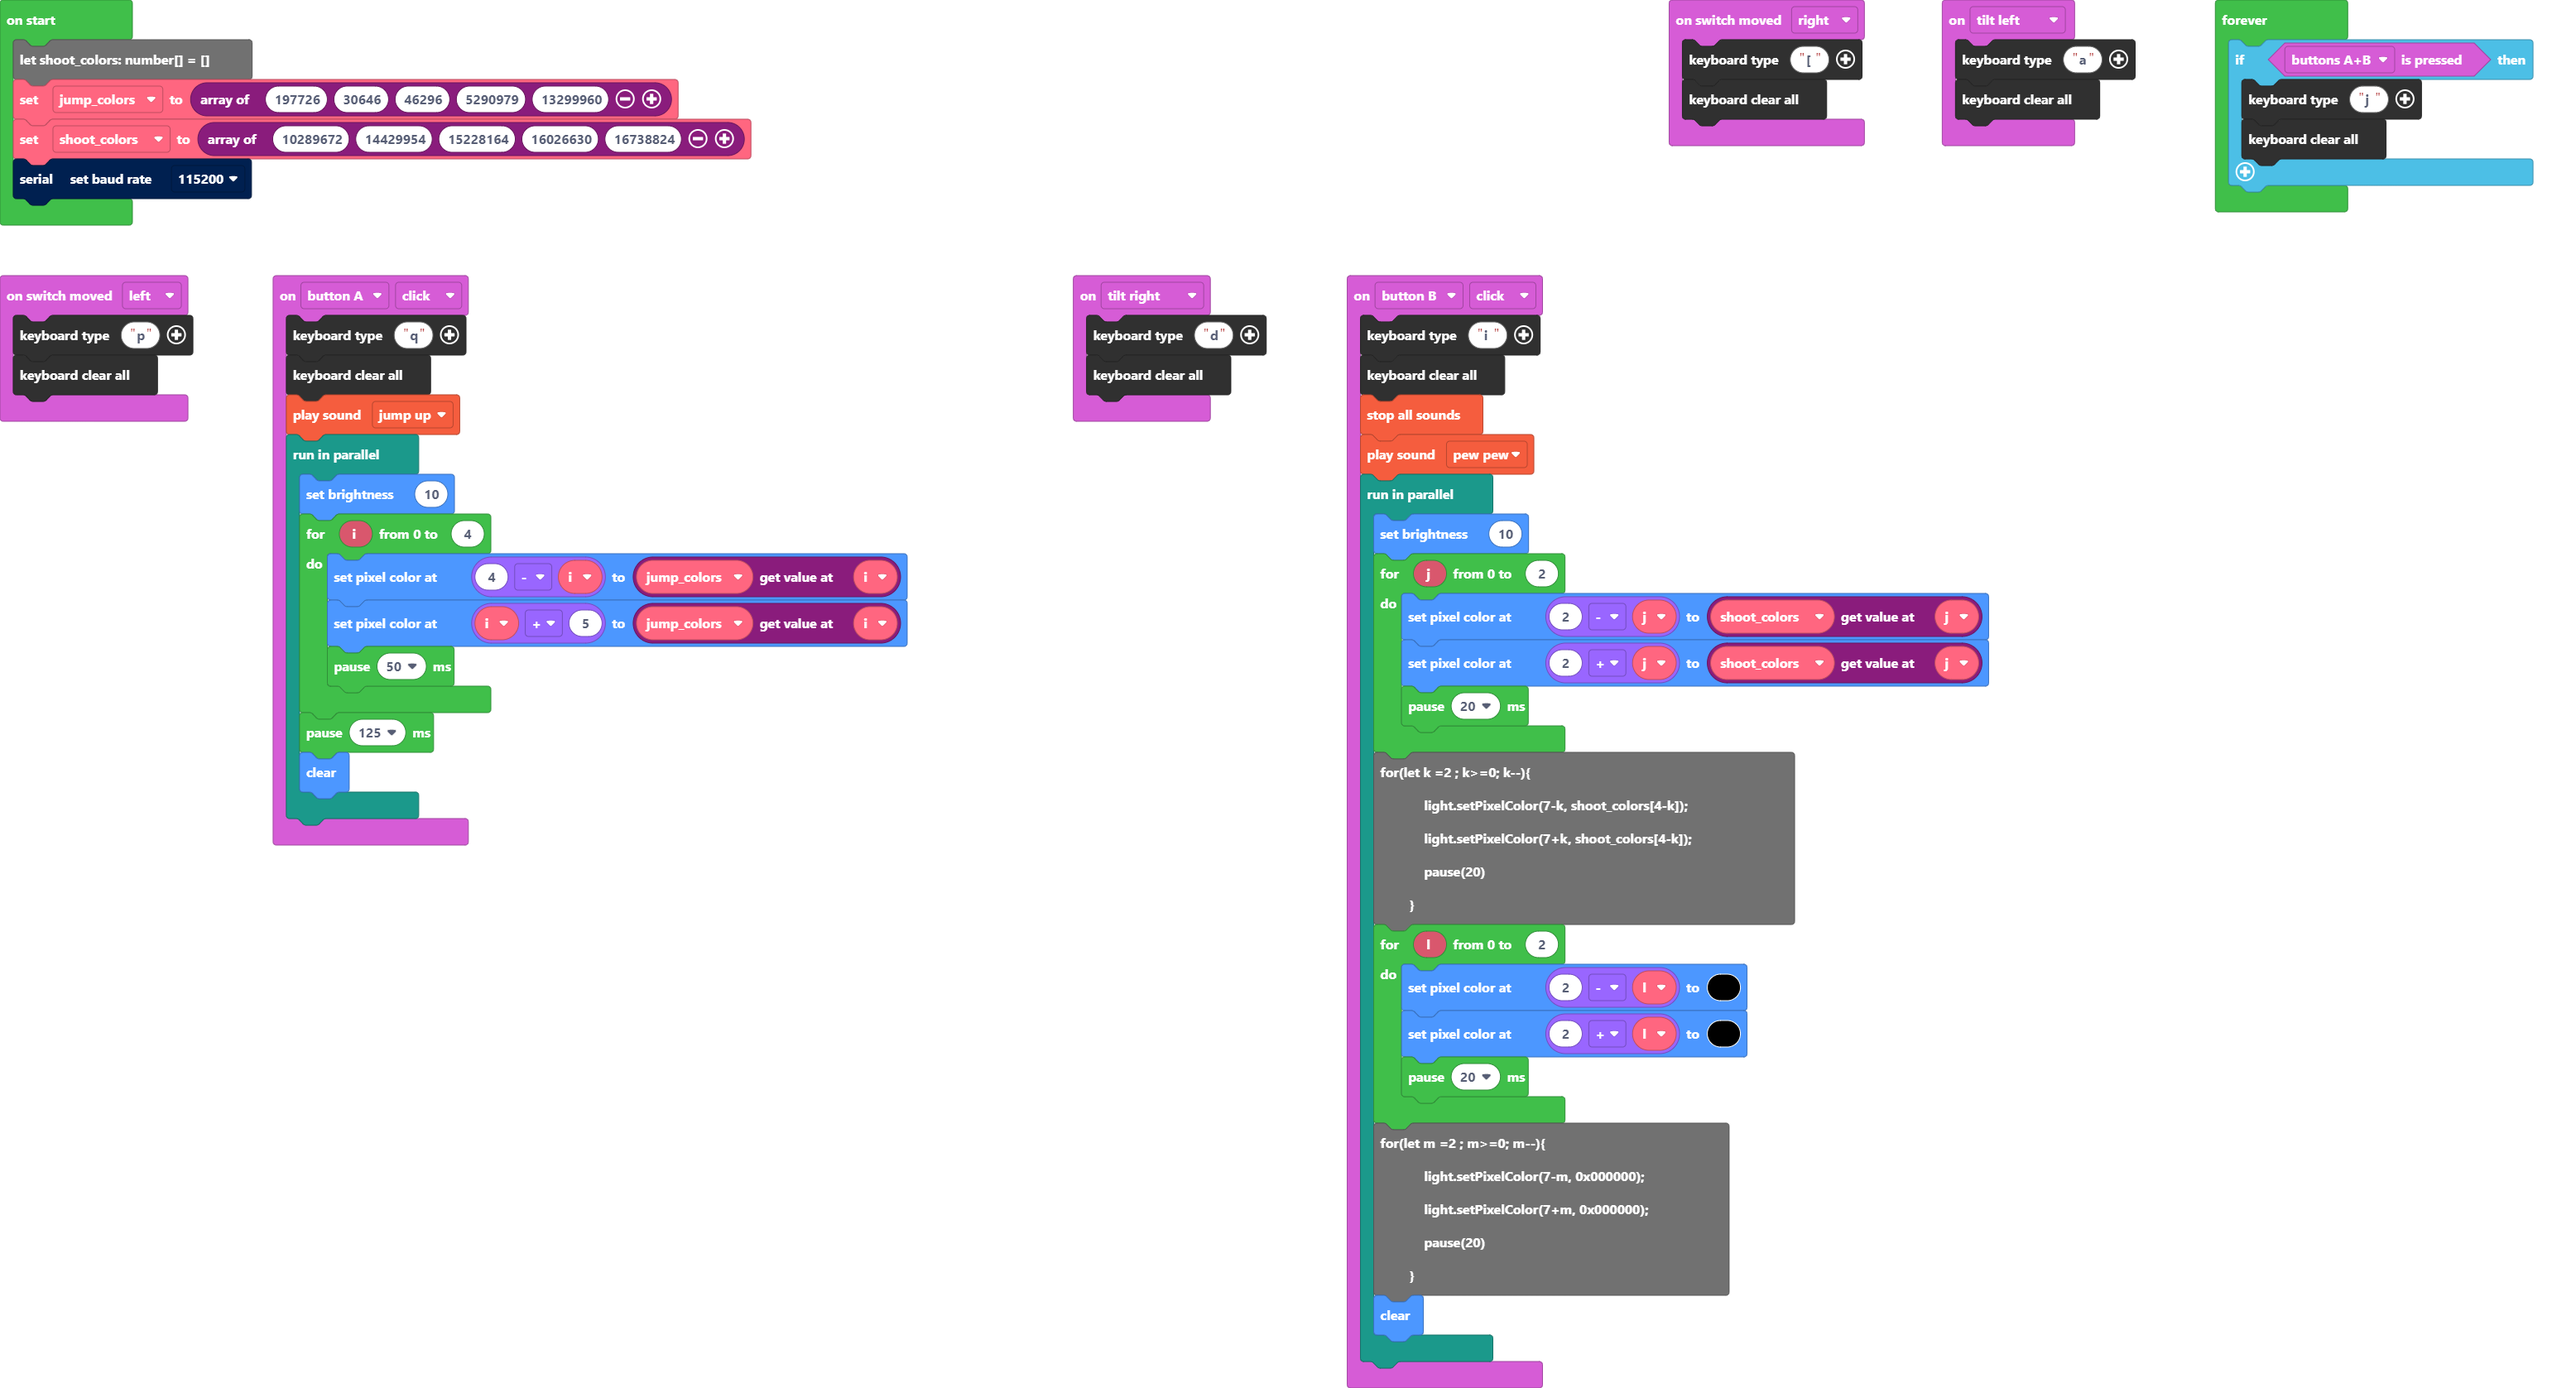
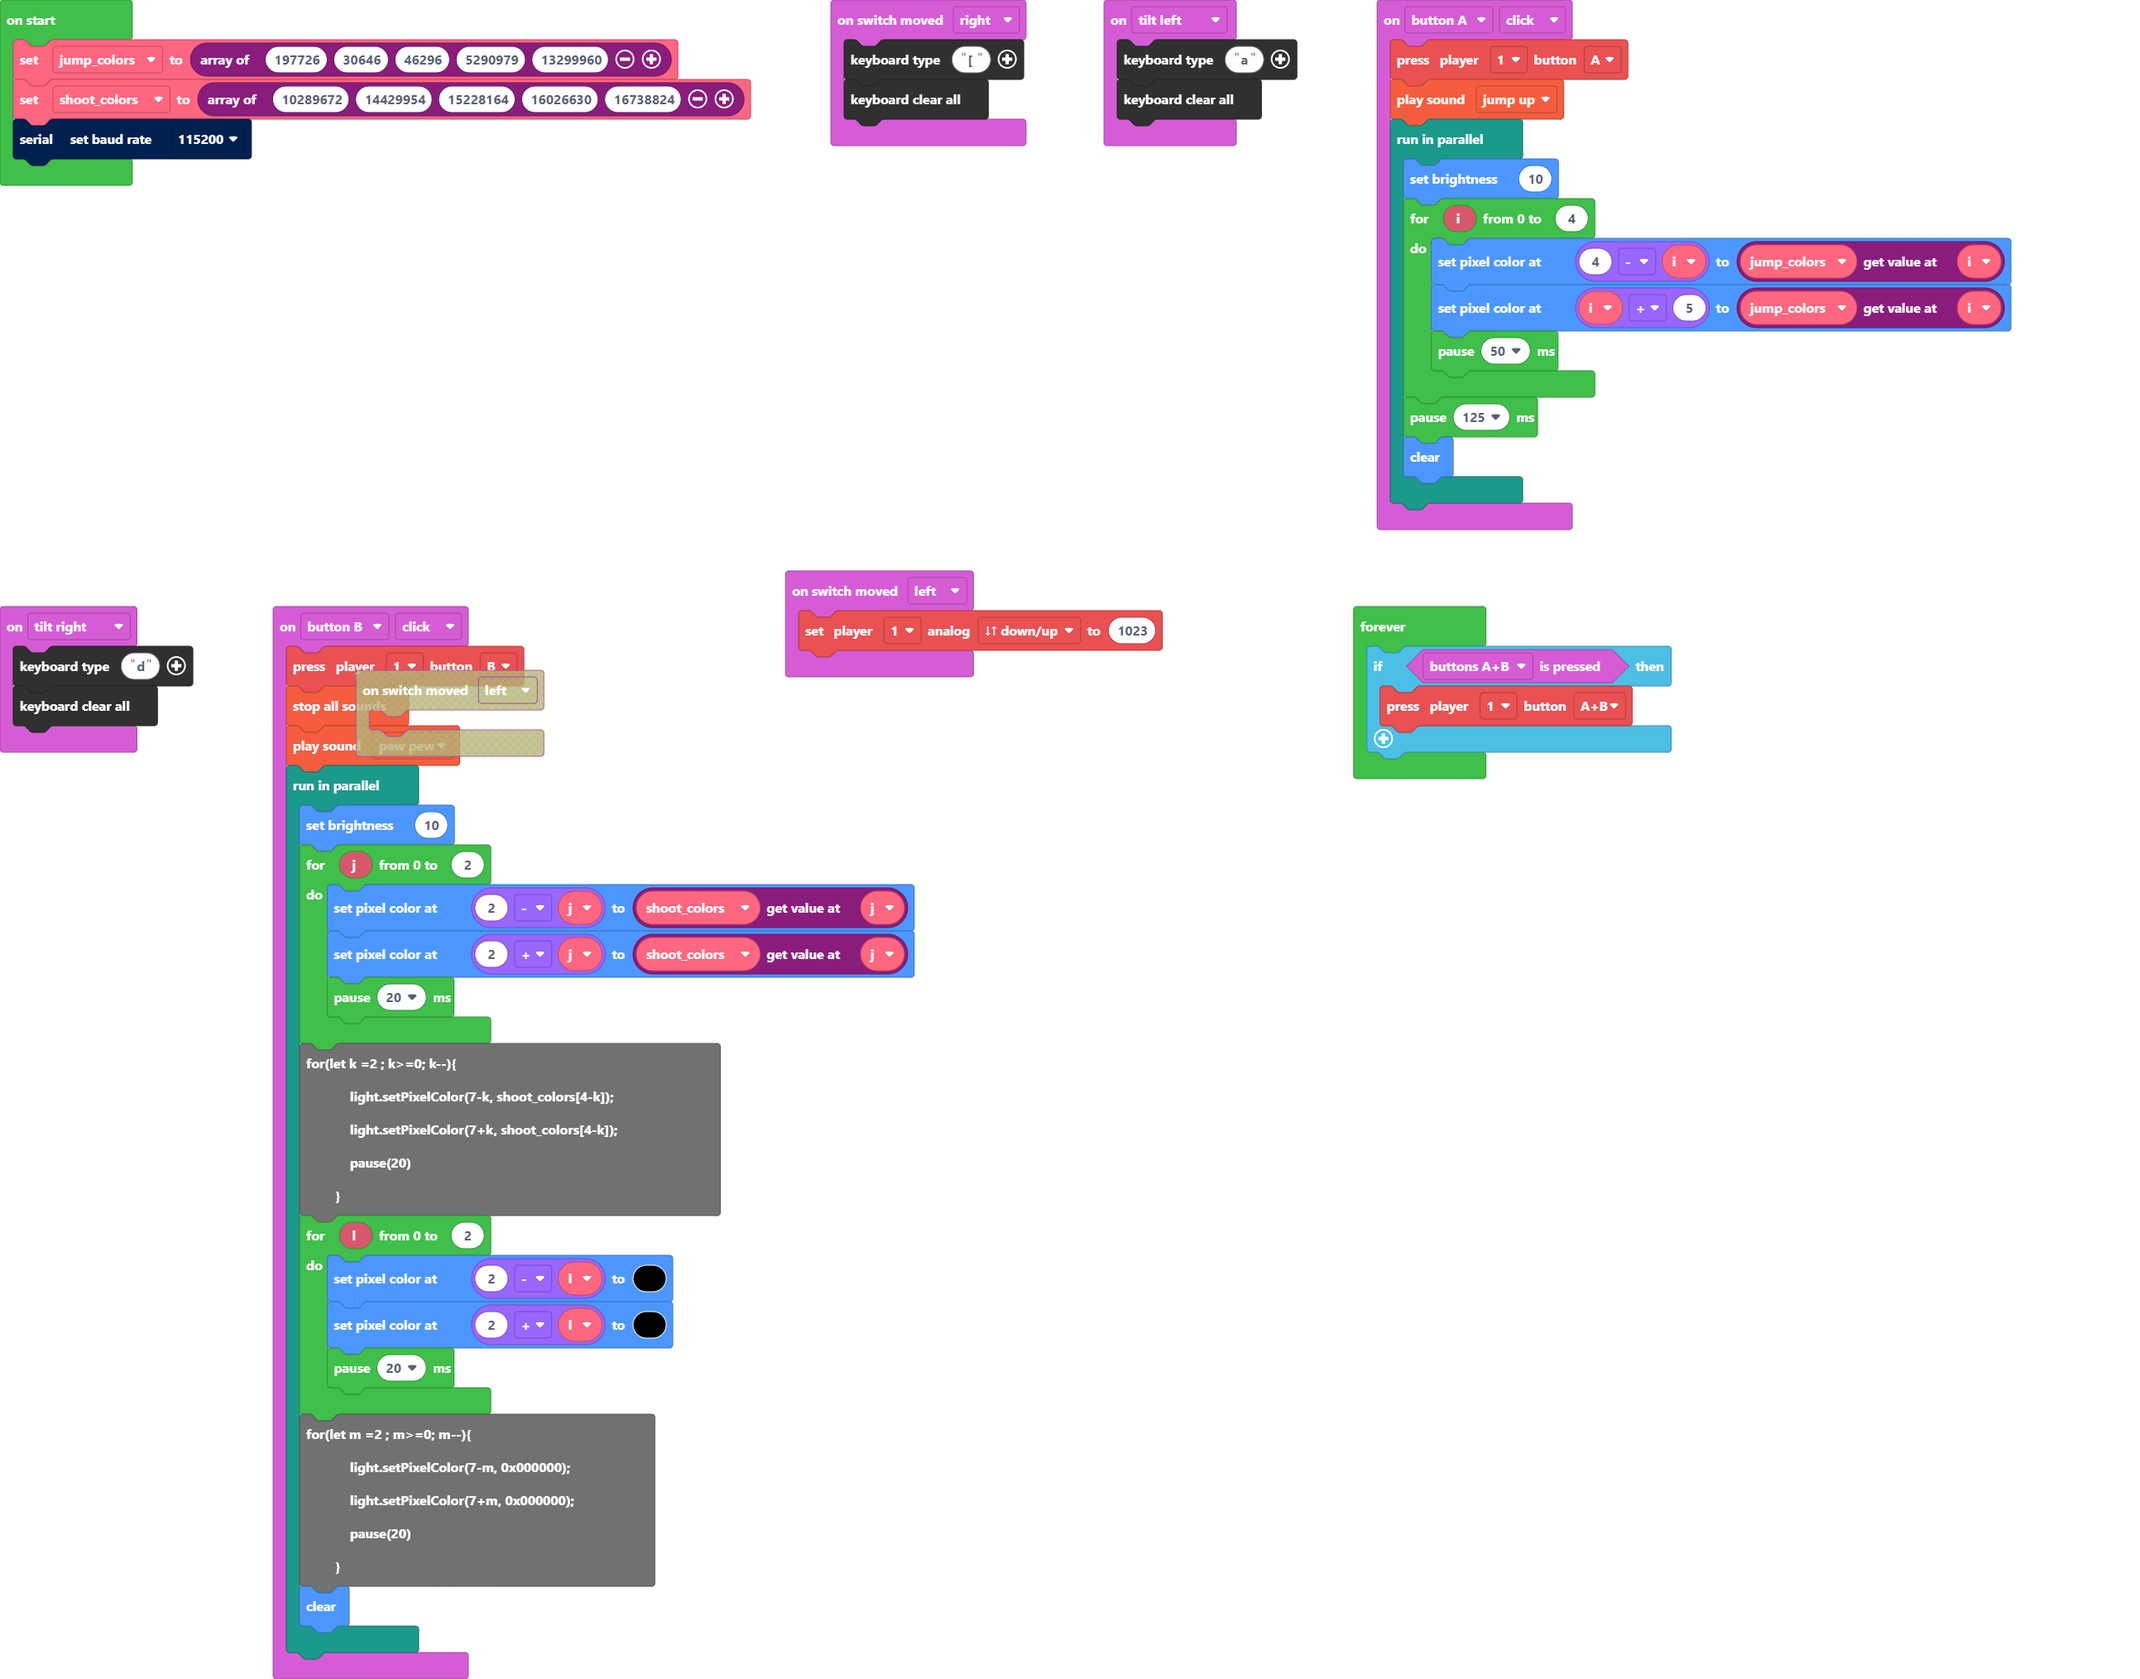
Update pxt.json, main.blocks, main.ts

diff --git a/main.ts b/main.ts
@@ -7,8 +7,7 @@ input.onGesture(Gesture.TiltLeft, function () {
     keyboard.clearAllKeys()
 })
 input.buttonA.onEvent(ButtonEvent.Click, function () {
-    keyboard.type("q")
-    keyboard.clearAllKeys()
+    makerController.player1.press(ArcadeButton.A)
     music.jumpUp.play()
     control.runInParallel(function () {
         light.setBrightness(10)
@@ -26,8 +25,7 @@ input.onGesture(Gesture.TiltRight, function () {
     keyboard.clearAllKeys()
 })
 input.buttonB.onEvent(ButtonEvent.Click, function () {
-    keyboard.type("i")
-    keyboard.clearAllKeys()
+    makerController.player1.press(ArcadeButton.B)
     music.stopAllSounds()
     music.pewPew.play()
     control.runInParallel(function () {
@@ -56,16 +54,15 @@ light.clear()
     })
 })
 input.onSwitchMoved(SwitchDirection.Left, function () {
-    keyboard.type("p")
-    keyboard.clearAllKeys()
+    makerController.player1.setAnalog(ArcadeAnalogButton.DownUp, 1023)
 })
-
-let jump_colors = [197726, 30646, 46296, 5290979, 13299960]
-let shoot_colors = [10289672, 14429954, 15228164, 16026630, 16738824]
+let shoot_colors: number[] = []
+let jump_colors: number[] = []
+jump_colors = [197726, 30646, 46296, 5290979, 13299960]
+shoot_colors = [10289672, 14429954, 15228164, 16026630, 16738824]
 serial.setBaudRate(BaudRate.BaudRate115200)
 forever(function () {
     if (input.buttonsAB.isPressed()) {
-        keyboard.type("j")
-        keyboard.clearAllKeys()
+        makerController.player1.press(ArcadeButton.AB)
     }
 })
